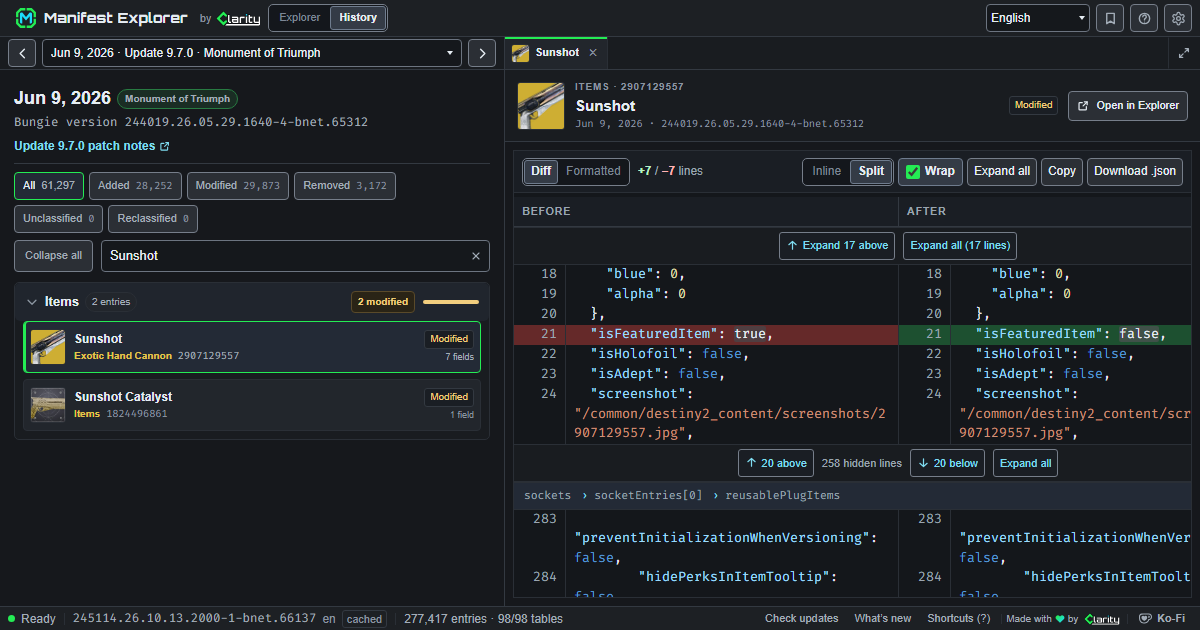
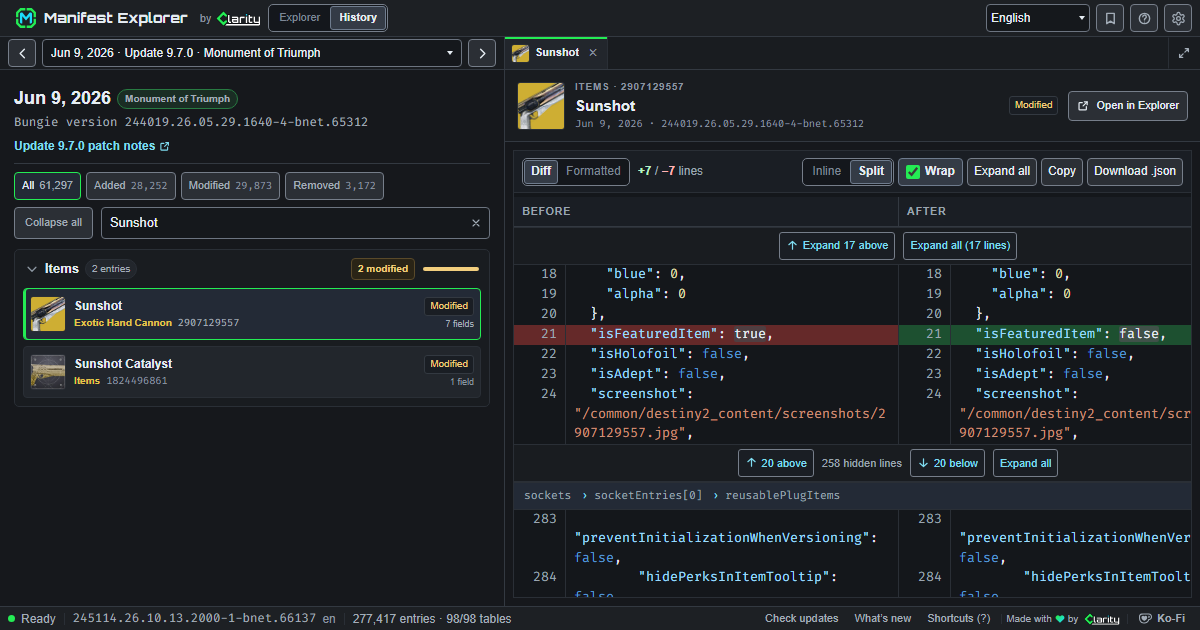
Keep /history kind filters on one compact row and hide zero-count secondary kinds

Changed region(s): [[0.0, 0.2714, 0.4008, 0.6937], [0.2775, 0.9651, 0.4625, 1.0]]

diff --git a/src/components/history/ManifestHistoryPage.tsx b/src/components/history/ManifestHistoryPage.tsx
@@ -503,7 +503,10 @@ const ReleaseOverview = memo(function ReleaseOverview({
 
       <div className={styles.overviewControls}>
         <div className={styles.kindFilters} role="group" aria-label="Filter changes by kind">
-          {CHANGE_KINDS.map(({ value, label }) => (
+          {CHANGE_KINDS.filter(({ value }) => {
+            if (value !== 'u' && value !== 'c') return true;
+            return kindFilter === value || allKindCounts[value] > 0;
+          }).map(({ value, label }) => (
             <button
               type="button"
               key={value}

diff --git a/worker/index.ts b/worker/index.ts
@@ -140,7 +140,7 @@ async function handleFetch(
 const HISTORY_PAGE_TITLE = 'Destiny 2 Manifest History';
 const HISTORY_PAGE_DESCRIPTION =
   'Browse Destiny 2 manifest updates from 2017 to today with categorized changes and full JSON diffs.';
-const HISTORY_PAGE_IMAGE = 'https://manifest.d2clarity.com/og-history.png?v=20261127-1';
+const HISTORY_PAGE_IMAGE = 'https://manifest.d2clarity.com/og-history.png?v=20261127-2';
 const HISTORY_PAGE_IMAGE_ALT = 'Destiny 2 Manifest History diffs by Clarity';
 
 async function serveHistoryPage(

diff --git a/src/components/history/ManifestHistoryPage.module.scss b/src/components/history/ManifestHistoryPage.module.scss
@@ -524,16 +524,24 @@
 .kindFilters {
   display: flex;
   align-items: center;
-  flex-wrap: wrap;
+  flex-wrap: nowrap;
   gap: 0.3125rem;
+  min-width: 0;
+  overflow-x: auto;
+  scrollbar-width: none;
+
+  &::-webkit-scrollbar {
+    display: none;
+  }
 }
 
 .kindFilter,
 .kindFilterActive {
   @include ctl.button;
+  min-width: 0;
   min-height: 1.75rem;
-  gap: 0.375rem;
-  padding: 0 0.5rem;
+  gap: 0.3125rem;
+  padding: 0 0.4375rem;
   font-size: 0.6875rem;
 }
 
